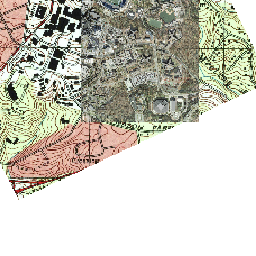
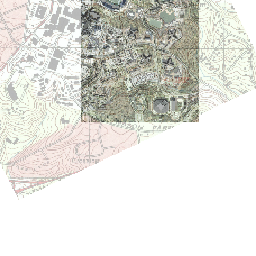
update

diff --git a/HW4/Homework4.html b/HW4/Homework4.html
@@ -1,0 +1,38 @@
+
+<!DOCTYPE html>
+<html>
+<head>
+  <title>Leaflet Preview</title>
+  <meta charset="utf-8" />
+  <meta name="viewport" content="width=device-width, initial-scale=1.0">
+
+  <link rel="stylesheet" href="https://unpkg.com/leaflet@1.5.1/dist/leaflet.css"
+   integrity="sha512-xwE/Az9zrjBIphAcBb3F6JVqxf46+CDLwfLMHloNu6KEQCAWi6HcDUbeOfBIptF7tcCzusKFjFw2yuvEpDL9wQ=="
+   crossorigin=""/>
+  <script src="https://unpkg.com/leaflet@1.5.1/dist/leaflet.js"
+   integrity="sha512-GffPMF3RvMeYyc1LWMHtK8EbPv0iNZ8/oTtHPx9/cc2ILxQ+u905qIwdpULaqDkyBKgOaB57QTMg7ztg8Jm2Og=="
+   crossorigin=""></script>
+  <style type="text/css">
+    body {
+       margin: 0;
+       padding: 0;
+    }
+    html, body, #map{
+       width: 100%;
+       height: 100%;
+    }
+  </style>
+</head>
+<body>
+  <div id="map"></div>
+  <script>
+      var map = L.map('map').setView([35.90261373760482, -79.04558747299573], 14.0);
+      L.tileLayer('./GEOG370Sp23/HW4/{z}/{x}/{y}.png', {
+        minZoom: 12,
+        maxZoom: 16,
+        tms: false,
+        attribution: 'Generated by TilesXYZ'
+      }).addTo(map);
+  </script>
+</body>
+</html>

diff --git a/index.html b/index.html
@@ -10,7 +10,7 @@
     <h1>GEOG 370 Spring '23 Projects</h1>
     <a href="./HW2/hw2.html">Homework 2</a>
     <a href="./HW3/Worldprojections copy/worldprojections.html">Homework 3</a>
-    <a href="./HW4/HW4.html">Homework 4</a>
+    <a href="./HW4/Homework4.html">Homework 4</a>
 
 </body>
 </html>
